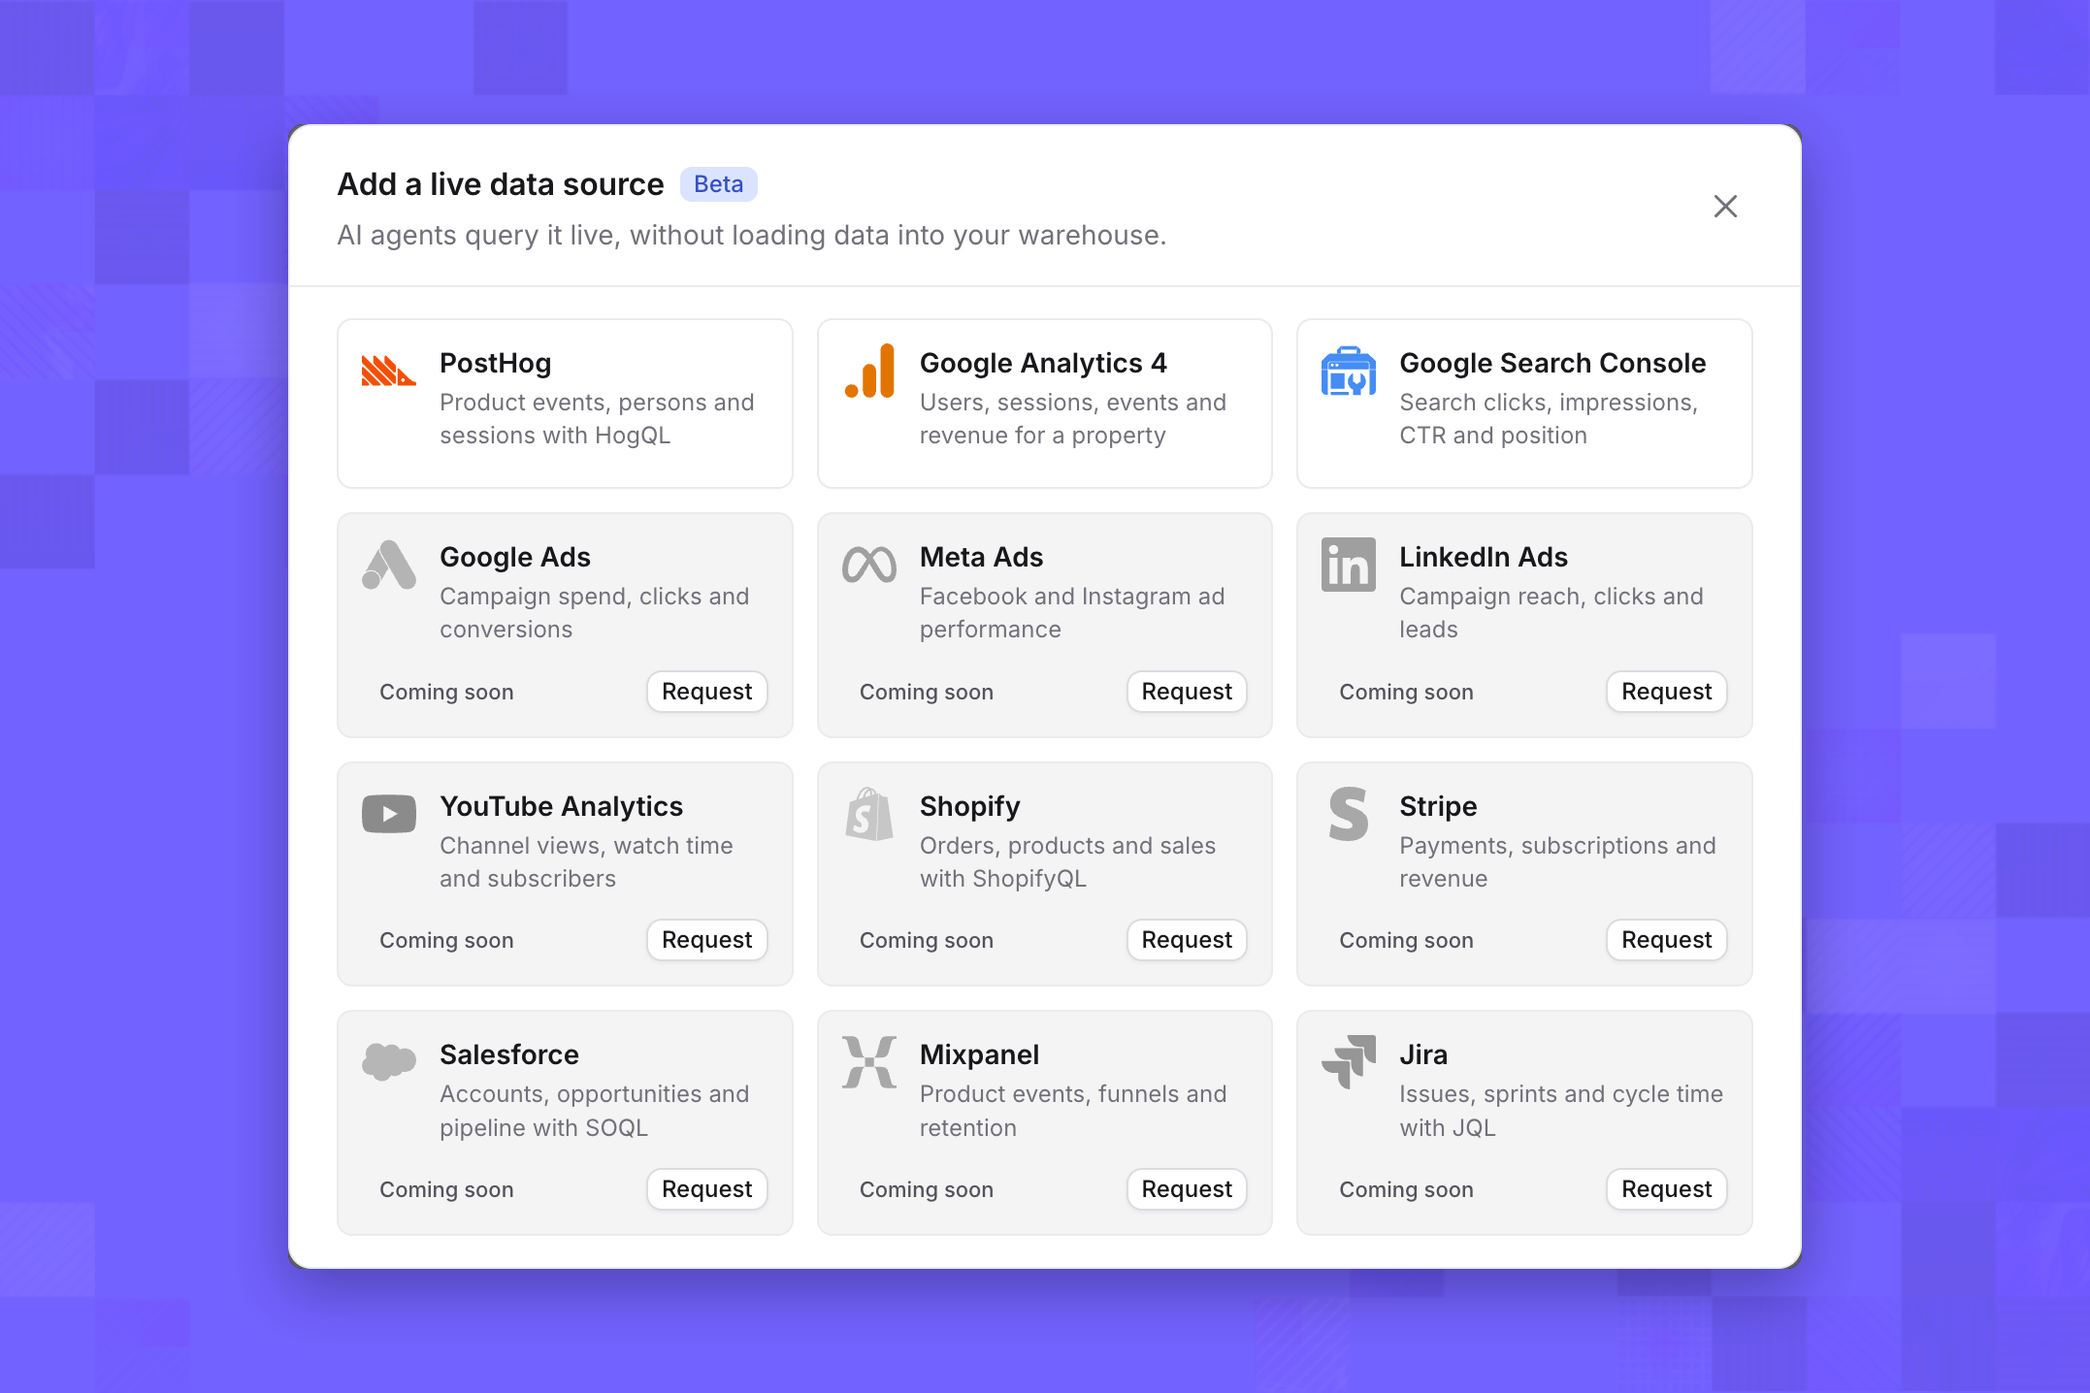
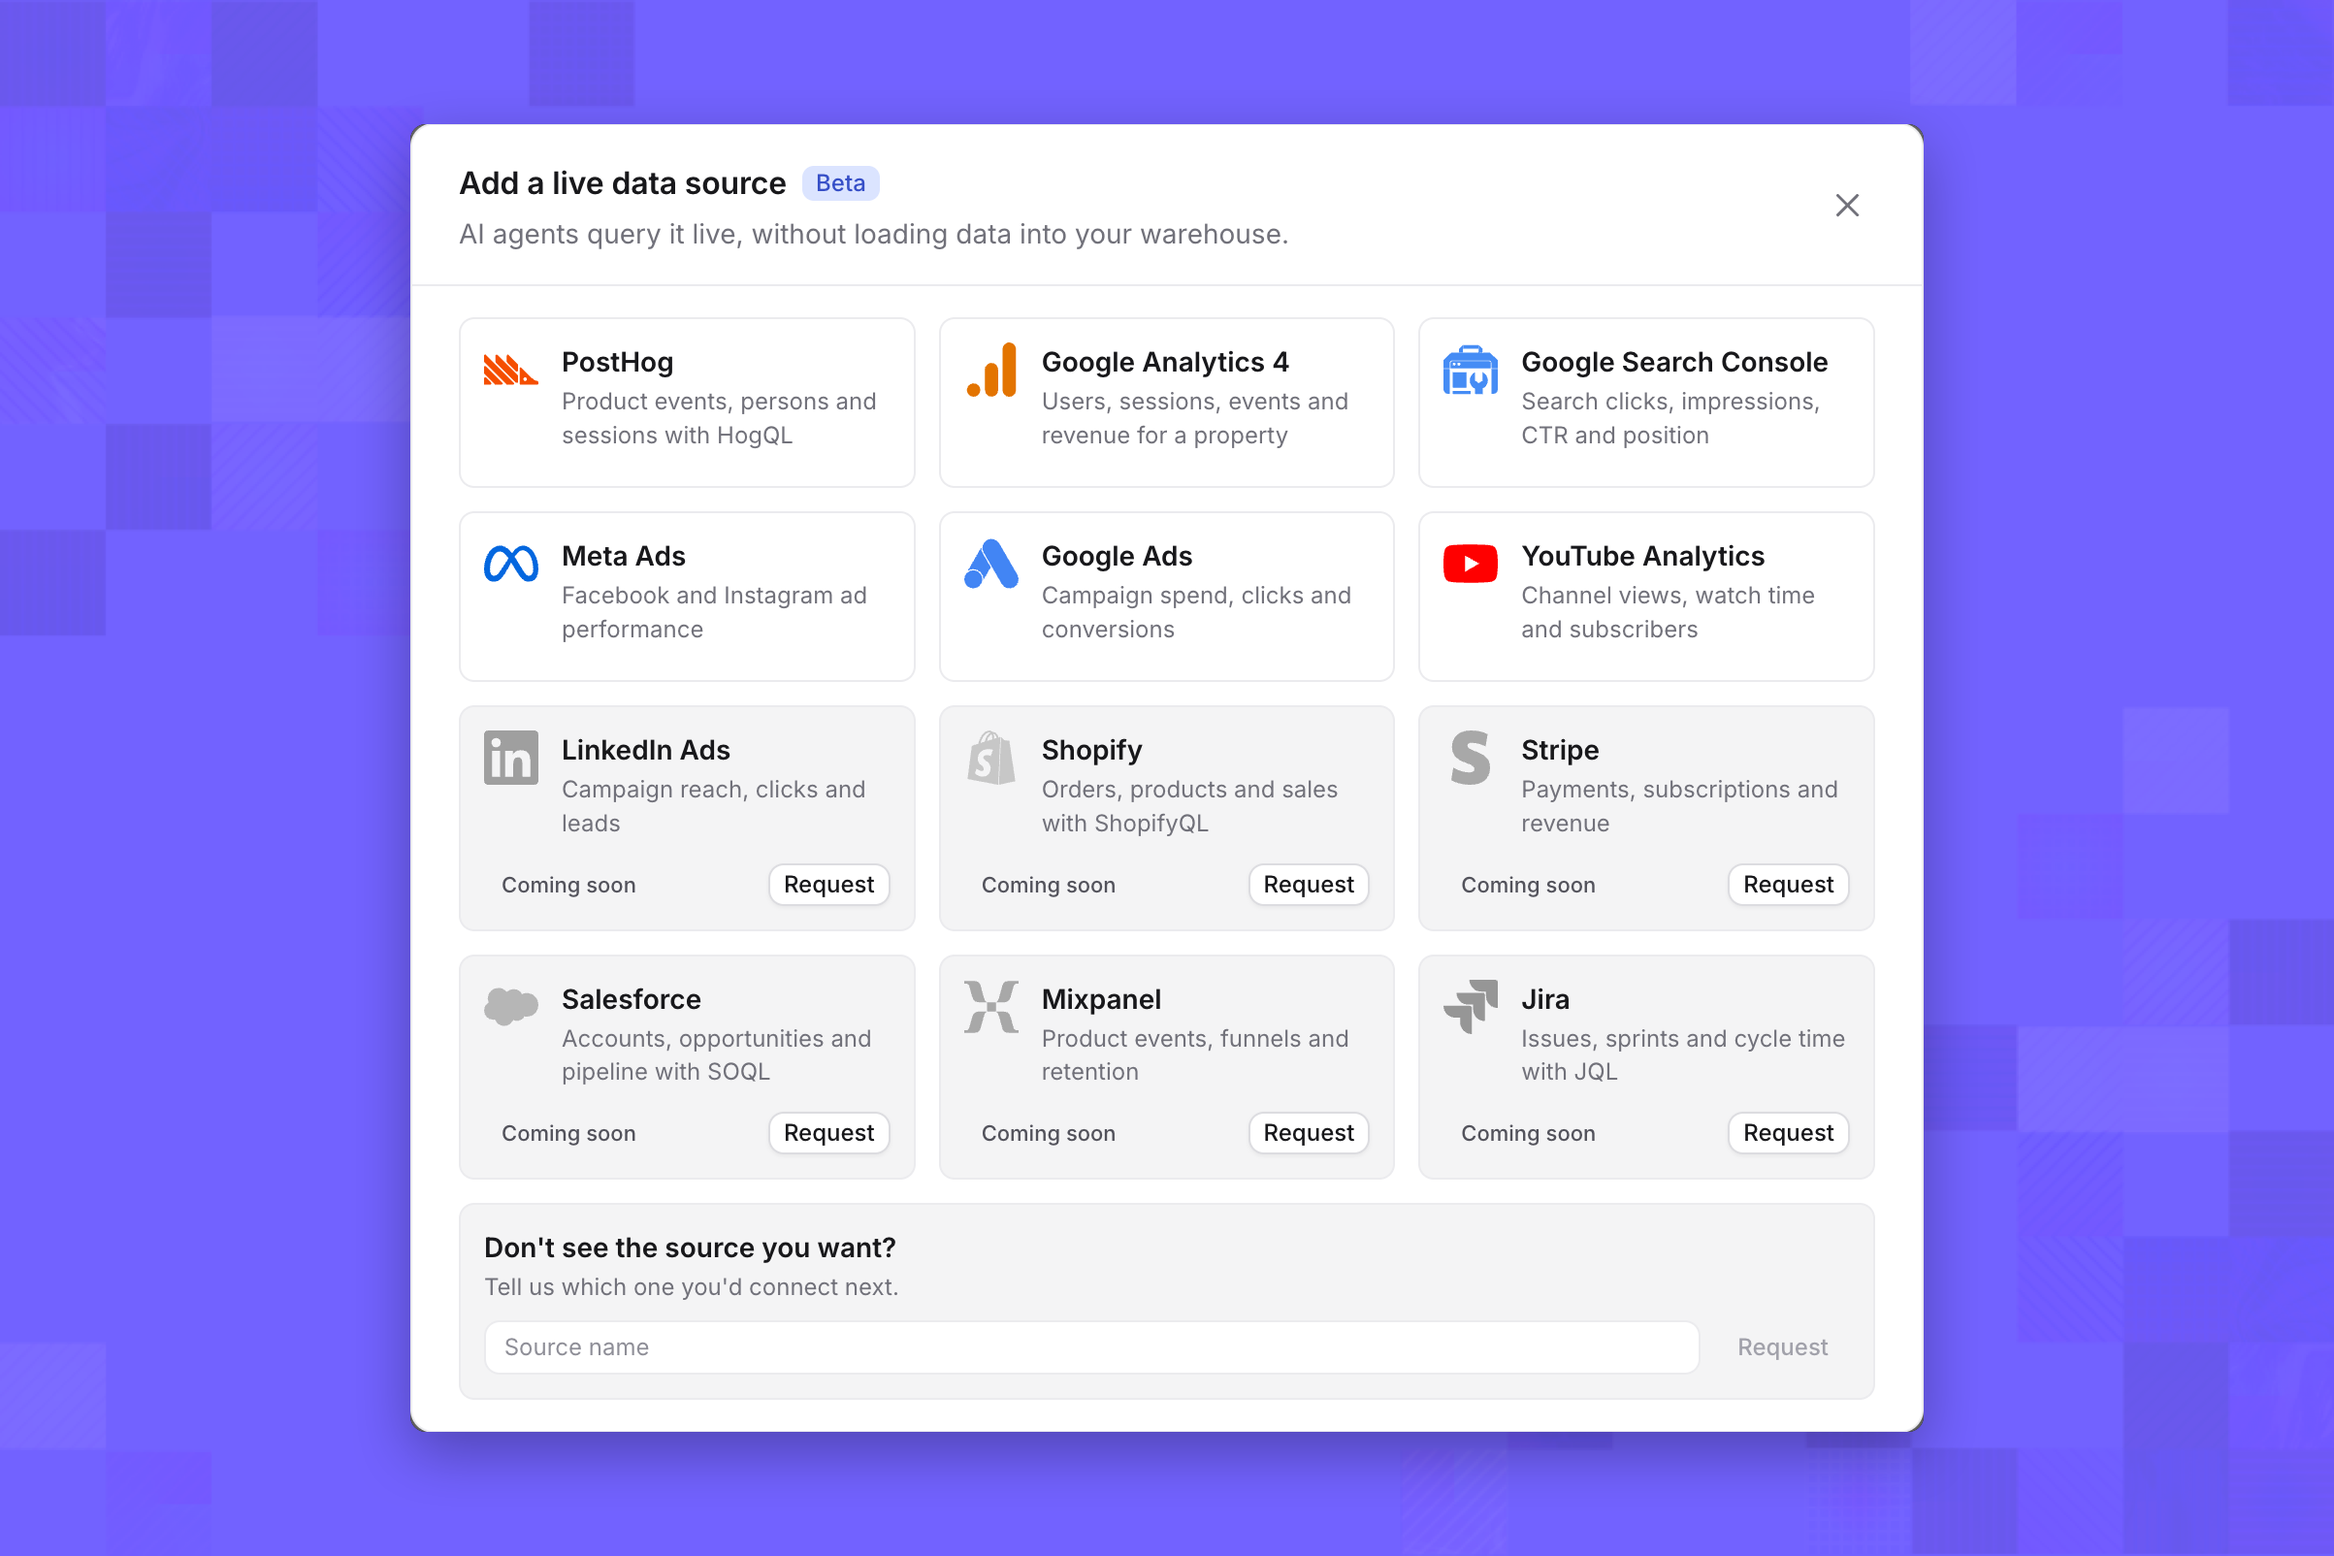
docs(live-sources): explain the explore prefix of a live data source (#1750)
* docs(live-sources): explain Source ID

* chore(navigation): refresh sidebar index

* docs(live-sources): call it the explore prefix

* docs(live-sources): refresh the add source screenshots

---------

diff --git a/sidebar-navigation.js b/sidebar-navigation.js
@@ -594,9 +594,6 @@ window.lightdashSidebarNavigation = [
 {"title":"Start Deep Research run","href":"/api-reference/start-deep-research-run","parents":["Reference","API Reference"]},
 {"title":"List Deep Research runs","href":"/api-reference/list-deep-research-runs","parents":["Reference","API Reference"]},
 {"title":"Get Deep Research run","href":"/api-reference/get-deep-research-run","parents":["Reference","API Reference"]},
-{"title":"Refresh Deep Research chart","href":"/api-reference/refresh-deep-research-chart","parents":["Reference","API Reference"]},
-{"title":"Get apiv1eeprojects ai deep research queries results","href":"/api-reference/get-apiv1eeprojects-ai-deep-research-queries-results","parents":["Reference","API Reference"]},
-{"title":"Get Deep Research chart","href":"/api-reference/get-deep-research-chart","parents":["Reference","API Reference"]},
 {"title":"List Deep Research events","href":"/api-reference/list-deep-research-events","parents":["Reference","API Reference"]},
 {"title":"Cancel Deep Research run","href":"/api-reference/cancel-deep-research-run","parents":["Reference","API Reference"]},
 {"title":"Get AI credit usage","href":"/api-reference/get-ai-credit-usage","parents":["Reference","API Reference"]},
